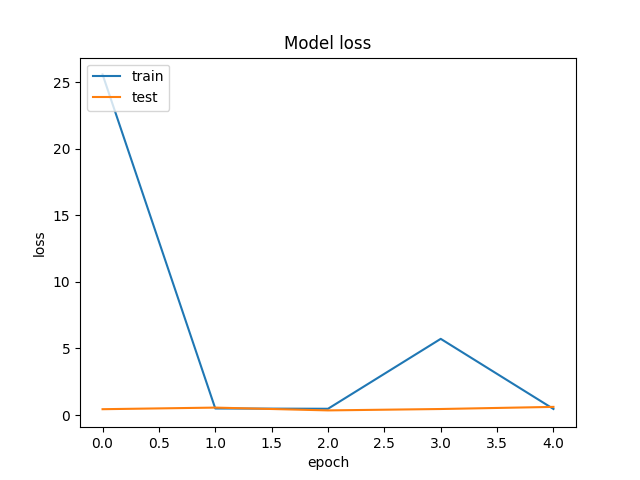
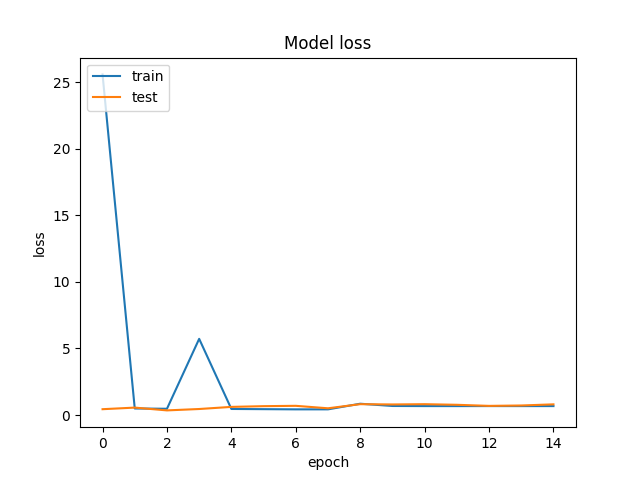
updates overnight

diff --git a/src/otis_model.py b/src/otis_model.py
@@ -19,7 +19,6 @@ def get_model():
     cnn.add(MaxPool2D(pool_size=(2,2)))
     cnn.add(Flatten())
     cnn.add(Dense(1024, activation='elu'))
-    cnn.add(Dense(512, activation='elu'))
     cnn.add(Dense(2,activation='sigmoid'))
     cnn.compile(optimizer='adam', loss='binary_crossentropy', metrics=['accuracy'])
     

diff --git a/src/hyperparams.py b/src/hyperparams.py
@@ -11,9 +11,9 @@ import datetime as dt
 
 save_model      = True
 single_input    = False
-iter_num        = '11'
+iter_num        = '12'
 val_split       = 0.1
-iter_tag        = 'extralayer512'
+iter_tag        = 'fin'
 iteration       = iter_num + '_' + iter_tag
 epochs          = 250
 target_w        = 300
